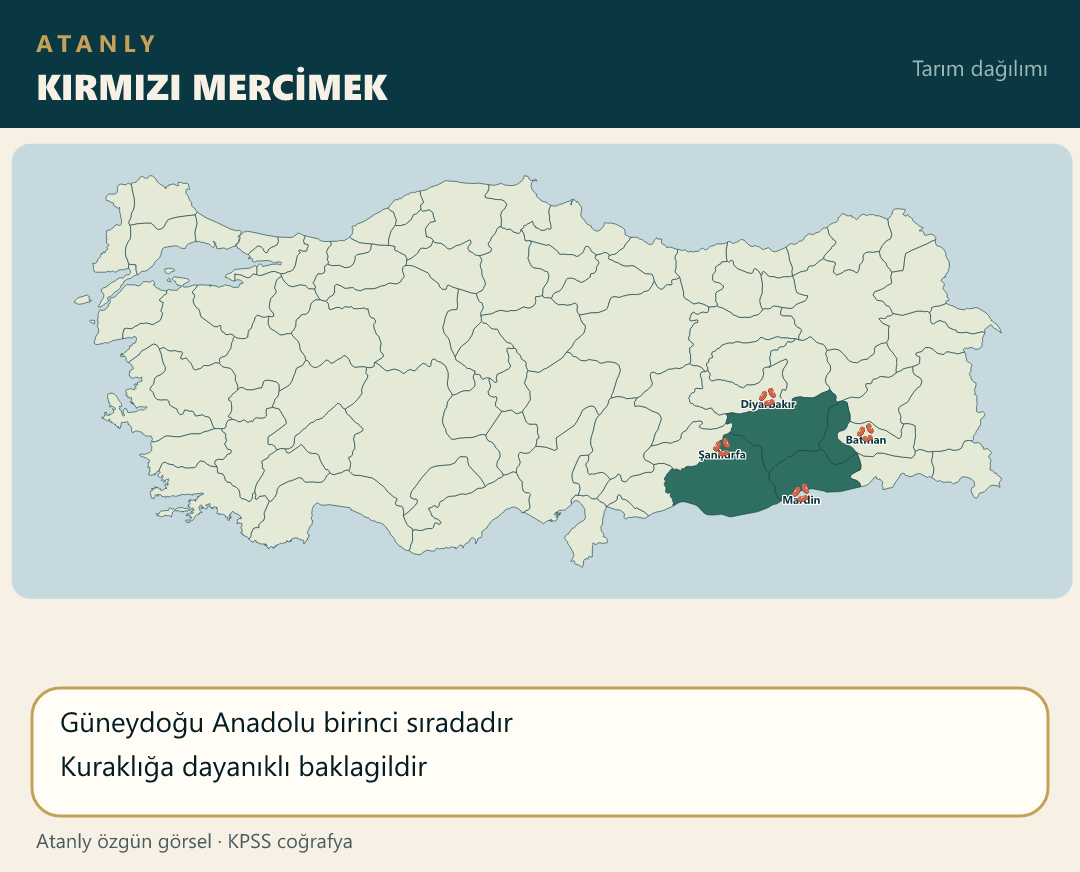
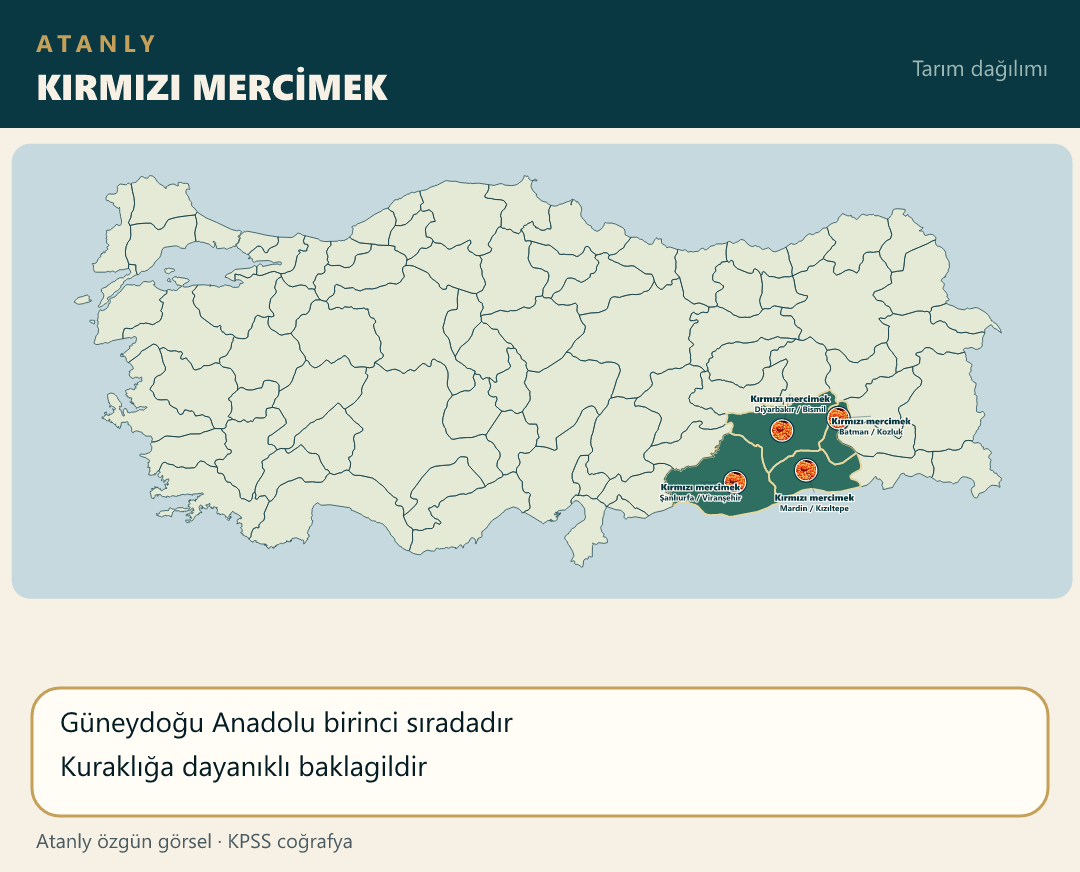
Place the red lentil photo on Southeast Anatolia production pins.

Changed region(s): [[0.6111, 0.4335, 0.8556, 0.5883], [0.825, 0.4025, 0.8556, 0.4335], [0.2444, 0.4954, 0.275, 0.5264]]

diff --git a/scripts/build-atanly-maps.js b/scripts/build-atanly-maps.js
@@ -664,7 +664,14 @@ function main() {
                 { il: "Adıyaman", ilce: "Kâhta" }
             ],
             facts: ["Güneydoğu Anadolu’nun karakteristik ürünü", "En çok Şanlıurfa–Birecik çevresi", "Gaziantep–Nizip adıyla anılır"] },
-        { file: "kırmızı_mercimek.png", title: "KIRMIZI MERCİMEK", iller: ["Şanlıurfa", "Diyarbakır", "Mardin", "Batman"], facts: ["Güneydoğu Anadolu birinci sıradadır", "Kuraklığa dayanıklı baklagildir"] },
+        { file: "kırmızı_mercimek.png", title: "KIRMIZI MERCİMEK", urun: "Kırmızı mercimek",
+            noktalar: [
+                { il: "Şanlıurfa", ilce: "Viranşehir", ldx: -34, ldy: 8 },
+                { il: "Diyarbakır", ilce: "Bismil", ldx: 8, ldy: -28 },
+                { il: "Mardin", ilce: "Kızıltepe", ldx: 8, ldy: 30 },
+                { il: "Batman", ilce: "Kozluk", ldx: 32, ldy: 6 }
+            ],
+            facts: ["Güneydoğu Anadolu birinci sıradadır", "Kuraklığa dayanıklı baklagildir"] },
         { file: "gül.png", title: "GÜL ÜRETİMİ", urun: "Gül",
             noktalar: [
                 { il: "Afyon", ilce: "Dinar", ldx: 8, ldy: -30 },

diff --git a/notlar/cografya-19-not.js b/notlar/cografya-19-not.js
@@ -2,7 +2,7 @@
 (function () {
     function harita(src, alt) {
         return '<div class="mt-4 overflow-hidden rounded-xl border border-blue-200 dark:border-blue-700/50 bg-white dark:bg-slate-800 p-2">' +
-            '<img src="./src/img/' + src + '?v=28" alt="' + alt + ' Haritası" class="w-full h-auto rounded-lg object-contain" loading="lazy">' +
+            '<img src="./src/img/' + src + '?v=29" alt="' + alt + ' Haritası" class="w-full h-auto rounded-lg object-contain" loading="lazy">' +
             "</div>";
     }
 

diff --git a/index.html b/index.html
@@ -117,7 +117,7 @@
     <script src="notlar/cografya-16-not.js?v=3"></script>
     <script src="notlar/cografya-17-not.js?v=3"></script>
     <script src="notlar/cografya-18-not.js?v=17"></script>
-    <script src="notlar/cografya-19-not.js?v=24"></script>
+    <script src="notlar/cografya-19-not.js?v=25"></script>
     <script src="notlar/cografya-20-not.js?v=1"></script>
     <script src="notlar/cografya-21-not.js?v=4"></script>
     <script src="notlar/cografya-22-not.js?v=1"></script>
